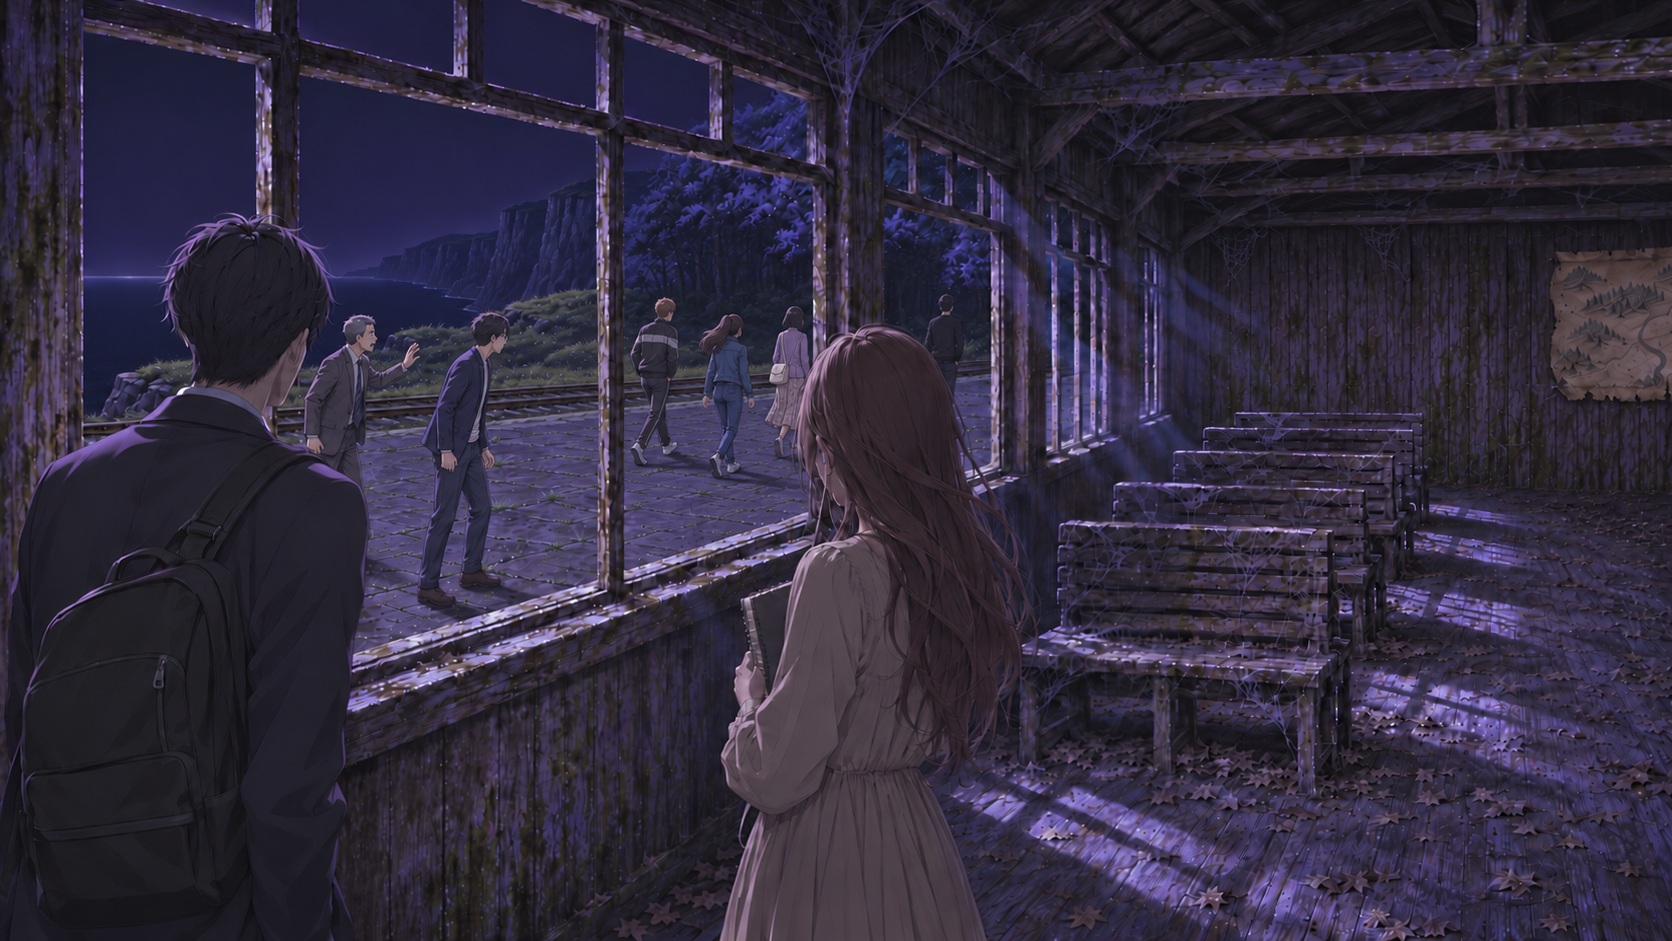
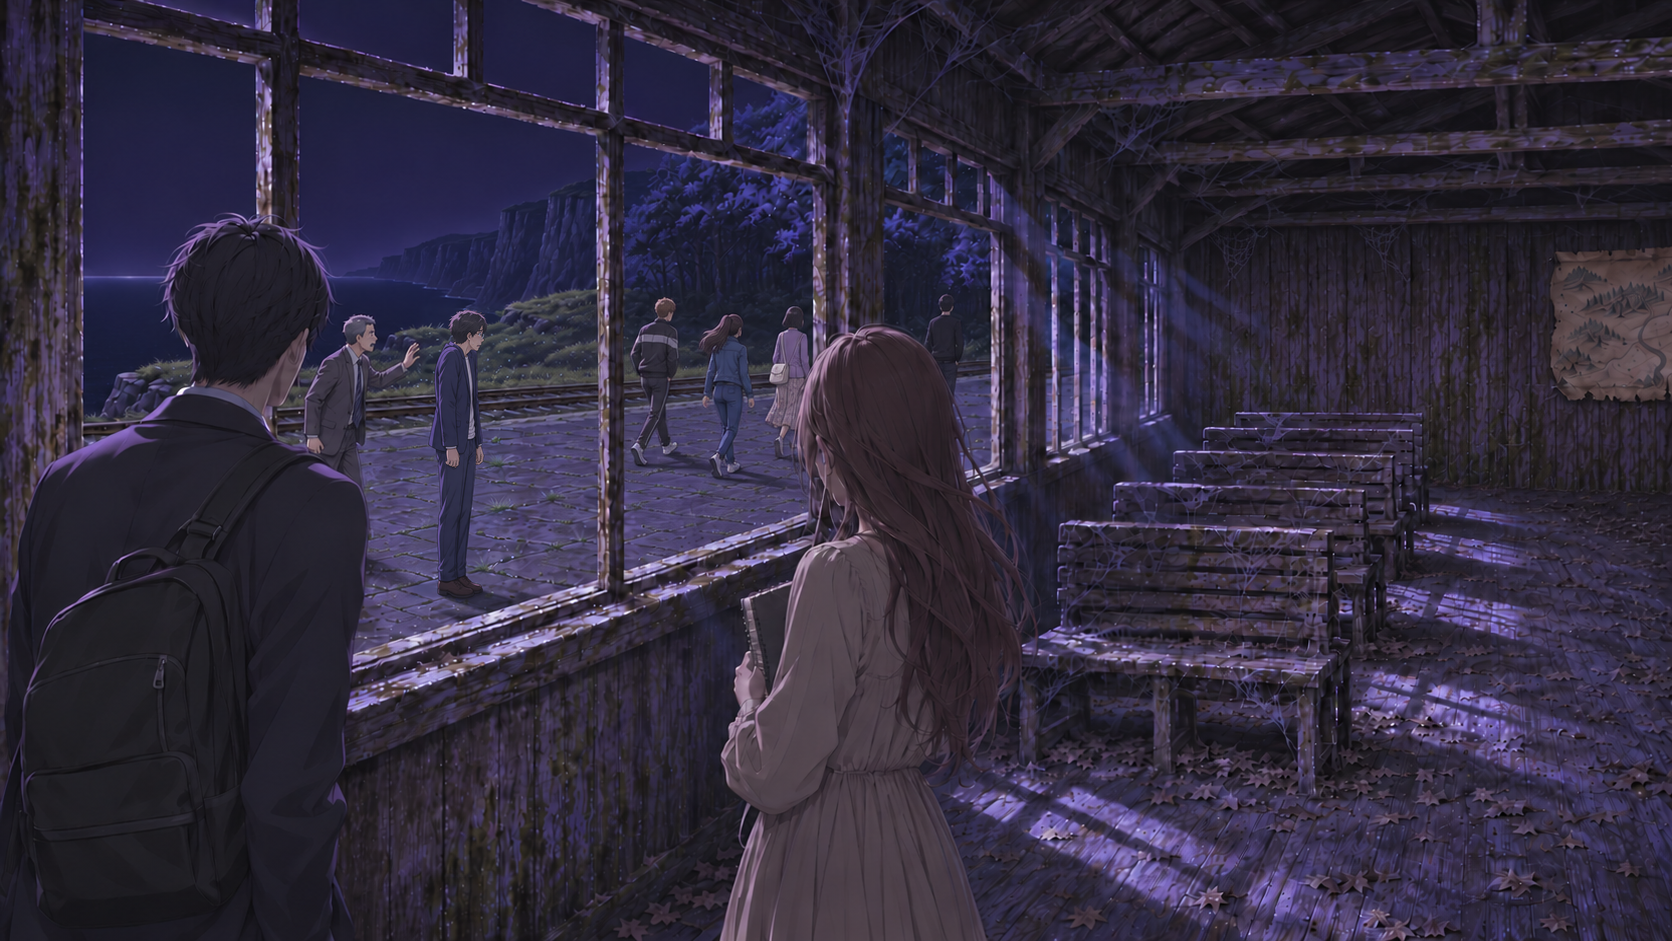
Keep Saito standing still in the departure shot
The narration right after this cue has him stay where he is, watching
the students go, before he shouts and runs after them. The background
showed him already stepping after them, which gave his decision away.

Changed region(s): [[0.2488, 0.3082, 0.311, 0.6472]]

diff --git a/packages/stories/raw/trainAdventure/branch_1a/act6.md b/packages/stories/raw/trainAdventure/branch_1a/act6.md
@@ -101,7 +101,7 @@ the waiting room inside the abandoned wooden station house of Jishui: a long sin
 **健談男大生**：對！我們走！誰愛留誰留！
 
 ```bg through_window_leaving
-the waiting room inside the abandoned wooden station house of Jishui: a long single-storey room under a high open roof with a dusty plank floor strewn with dead leaves; dark weathered plank walls with cracks and mould stains; exposed old roof beams heavy with cobwebs; rows of old wooden slatted benches draped with spider webs, all facing the same way; along the front wall, window openings in old wooden frames with no glass look out onto the cracked stone platform, the empty railway track just beyond it, then the grassy, rocky edge of a high sea cliff and the flat black sea far below it, with the sheer dark face of the cliff under the forest to one side and open sea to the horizon on the other, and no moon inside the openings; on the far end wall a large yellowed parchment map, torn at the edges and half peeling off the planks, held by rusty nails, with only faint ink lines of paths and a forest and no readable writing; the far end wall is wide and plain, the map hangs at the right edge of the frame with half of it cut off outside the picture, and the broken ticket window beyond it is out of frame; cold violet moonlight falls in through the window openings in pale shafts; no lamps and no electric light inside. Camera: inside the dark waiting room at standing eye level, behind Li Jie and Emi, who stand at one of the glassless window openings in the front wall, looking out. Li Jie (28-year-old man, short black hair, dark suit jacket, black backpack) on the left of the opening and Emi (young woman, long chestnut hair, beige cotton dress, white wired earphones, plain white canvas sneakers) on the right, both seen from behind in three-quarter, dark shapes against the moonlit opening, Emi holding her sketchbook. Through the window opening, framed by its old wooden mullions: the cracked grey-white stone platform under cold violet moonlight, the empty track, the grassy cliff edge just past it, the black sea far below and, to one side, the dark cliff face under the forest, no moon visible. Out on the platform the argument is over and the group is splitting up, from left to right: Yamamoto (late-40s man, short grey-streaked hair, no glasses, grey suit, navy striped tie, no bag, since he left it in the waiting room) stands near the window with one hand half raised toward the students, worried and resigned; Saito Ren (rimless glasses, navy blazer over a white tee) steps after them, frightened and hesitant; the four students walk away along the platform to the right toward the dark forest, seen from behind, a few steps apart: Kenta (light-brown hair, black-and-grey track jacket), Asuka (brown ponytail, denim jacket, blue jeans), Misaki (dark bob, lavender cardigan, floral skirt, cream shoulder bag) and Takumi (black knit sweater). The people outside are small. Only the people named here are in view. Muted cold palette, moody cinematic visual-novel background art, 16:9, no text, no logo
+the waiting room inside the abandoned wooden station house of Jishui: a long single-storey room under a high open roof with a dusty plank floor strewn with dead leaves; dark weathered plank walls with cracks and mould stains; exposed old roof beams heavy with cobwebs; rows of old wooden slatted benches draped with spider webs, all facing the same way; along the front wall, window openings in old wooden frames with no glass look out onto the cracked stone platform, the empty railway track just beyond it, then the grassy, rocky edge of a high sea cliff and the flat black sea far below it, with the sheer dark face of the cliff under the forest to one side and open sea to the horizon on the other, and no moon inside the openings; on the far end wall a large yellowed parchment map, torn at the edges and half peeling off the planks, held by rusty nails, with only faint ink lines of paths and a forest and no readable writing; the far end wall is wide and plain, the map hangs at the right edge of the frame with half of it cut off outside the picture, and the broken ticket window beyond it is out of frame; cold violet moonlight falls in through the window openings in pale shafts; no lamps and no electric light inside. Camera: inside the dark waiting room at standing eye level, behind Li Jie and Emi, who stand at one of the glassless window openings in the front wall, looking out. Li Jie (28-year-old man, short black hair, dark suit jacket, black backpack) on the left of the opening and Emi (young woman, long chestnut hair, beige cotton dress, white wired earphones, plain white canvas sneakers) on the right, both seen from behind in three-quarter, dark shapes against the moonlit opening, Emi holding her sketchbook. Through the window opening, framed by its old wooden mullions: the cracked grey-white stone platform under cold violet moonlight, the empty track, the grassy cliff edge just past it, the black sea far below and, to one side, the dark cliff face under the forest, no moon visible. Out on the platform the argument is over and the group is splitting up, from left to right: Yamamoto (late-40s man, short grey-streaked hair, no glasses, grey suit, navy striped tie, no bag, since he left it in the waiting room) stands near the window with one hand half raised toward the students, worried and resigned; Saito Ren (rimless glasses, navy blazer over a white tee) stands still where he is, upright with both feet together, not walking, watching the students go, frightened and hesitant, not yet following; the four students walk away along the platform to the right toward the dark forest, seen from behind, a few steps apart: Kenta (light-brown hair, black-and-grey track jacket), Asuka (brown ponytail, denim jacket, blue jeans), Misaki (dark bob, lavender cardigan, floral skirt, cream shoulder bag) and Takumi (black knit sweater). The people outside are small. Only the people named here are in view. Muted cold palette, moody cinematic visual-novel background art, 16:9, no text, no logo
 ```
 
 **旁白**：一陣雜亂的腳步聲響起。透過窗戶，李杰看到四個大學生朝著森林的方向走去。
